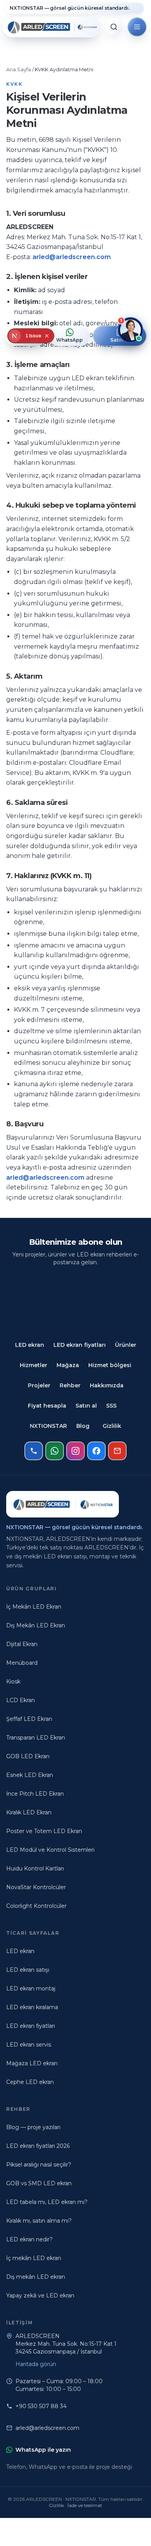
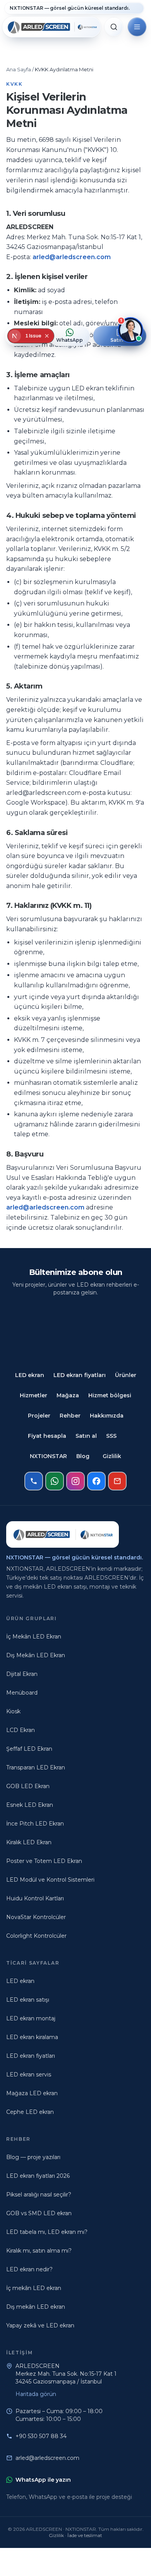
KVKK: IP cümlesi, Google Workspace alıcısı; formda zorunlu onay kutusu yerine KVKK linkli bilgi satırı

diff --git a/src/components/quote/ShortQuoteForm.tsx b/src/components/quote/ShortQuoteForm.tsx
@@ -21,7 +21,6 @@ interface FormState {
   location: string;
   timeline: string;
   notes: string;
-  consent: boolean;
   /** Optional explicit consent (açık rıza) for transfer abroad — never required. */
   abroadConsent: boolean;
 }
@@ -119,7 +118,6 @@ export function ShortQuoteForm({
     location: "",
     timeline: "",
     notes: "",
-    consent: false,
     abroadConsent: false,
   });
 
@@ -158,9 +156,6 @@ export function ShortQuoteForm({
       e.location = en
         ? "Please enter the project city or district."
         : "Lütfen projenin şehir veya ilçesini yazın.";
-    }
-    if (!f.consent) {
-      e.consent = en ? "Please tick the consent box to continue." : "Devam etmek için onay kutusunu işaretleyin.";
     }
     setErrors(e);
     return Object.keys(e).length === 0;
@@ -422,31 +417,19 @@ export function ShortQuoteForm({
           />
         </div>
         <div className="sm:col-span-2">
-          <label className="flex min-h-11 cursor-pointer items-start gap-3 text-sm text-ink-soft">
-            <input
-              type="checkbox"
-              className="mt-1 h-5 w-5 shrink-0 accent-[#1E5BB8]"
-              checked={f.consent}
-              aria-invalid={!!errors.consent}
-              aria-describedby={errors.consent ? `${id}-consent-err` : undefined}
-              onChange={(e) => set("consent", e.target.checked)}
-            />
-            <span>
-              {en
-                ? "I agree that my details are used only to prepare a quote and to contact me."
-                : "Bilgilerimin yalnızca teklif hazırlanması ve benimle iletişime geçilmesi amacıyla kullanılmasını kabul ediyorum."}
-            </span>
-          </label>
-          {err("consent")}
           {!en ? (
-            <p className="mt-2 text-sm text-ink-soft">
-              Kişisel verilerinizin nasıl işlendiğini{" "}
+            <p className="text-sm text-ink-soft">
+              Bilgileriniz{" "}
               <Link href="/tr/kvkk/" className="font-semibold text-cyan underline underline-offset-2">
                 KVKK Aydınlatma Metni
-              </Link>
-              &apos;nde okuyabilirsiniz.
+              </Link>{" "}
+              kapsamında işlenir.
             </p>
-          ) : null}
+          ) : (
+            <p className="text-sm text-ink-soft">
+              Your details are used only to prepare a quote and to contact you.
+            </p>
+          )}
         </div>
         {!en ? (
           <div className="sm:col-span-2">

diff --git a/src/app/[locale]/kvkk/page.tsx b/src/app/[locale]/kvkk/page.tsx
@@ -102,7 +102,7 @@ export default async function KvkkPage({ params }: { params: Promise<{ locale: s
                 <li><strong className="text-ink">İletişim:</strong> iş e-posta adresi, telefon numarası</li>
                 <li><strong className="text-ink">Mesleki bilgi:</strong> otel adı, görev/unvan</li>
                 <li>
-                  <strong className="text-ink">İşlem güvenliği:</strong> form gönderim tarihi ve saati (IP adresiniz kaydedilmez)
+                  <strong className="text-ink">İşlem güvenliği:</strong> form gönderim tarihi ve saati. Form aracılığıyla IP adresiniz kaydedilmez.
                   {/* IP: form (ShortQuoteForm) talebi WhatsApp/e-posta taslağı olarak açar, sitede saklamaz; IP kaydı yok. */}
                 </li>
               </ul>
@@ -146,7 +146,7 @@ export default async function KvkkPage({ params }: { params: Promise<{ locale: s
               </p>
               <p className="mt-2">
                 E-posta ve form altyapısı için yurt dışında sunucu bulunduran hizmet sağlayıcılar
-                kullanılmaktadır (barındırma: Cloudflare; bildirim e-postaları: Cloudflare Email Service). Bu
+                kullanılmaktadır (barındırma: Cloudflare; bildirim e-postaları: Cloudflare Email Service; bildirimlerin ulaştığı arled@arledscreen.com e-posta kutusu: Google Workspace). Bu
                 aktarım, KVKK m. 9&apos;a uygun olarak gerçekleştirilir.
                 <Dogrula note="DOĞRULA-4: dayanak — açık rıza mı, standart sözleşme mi? Açık rıza ise formda ayrı ve zorunlu olmayan bir onay kutusu gerekir" />
               </p>
